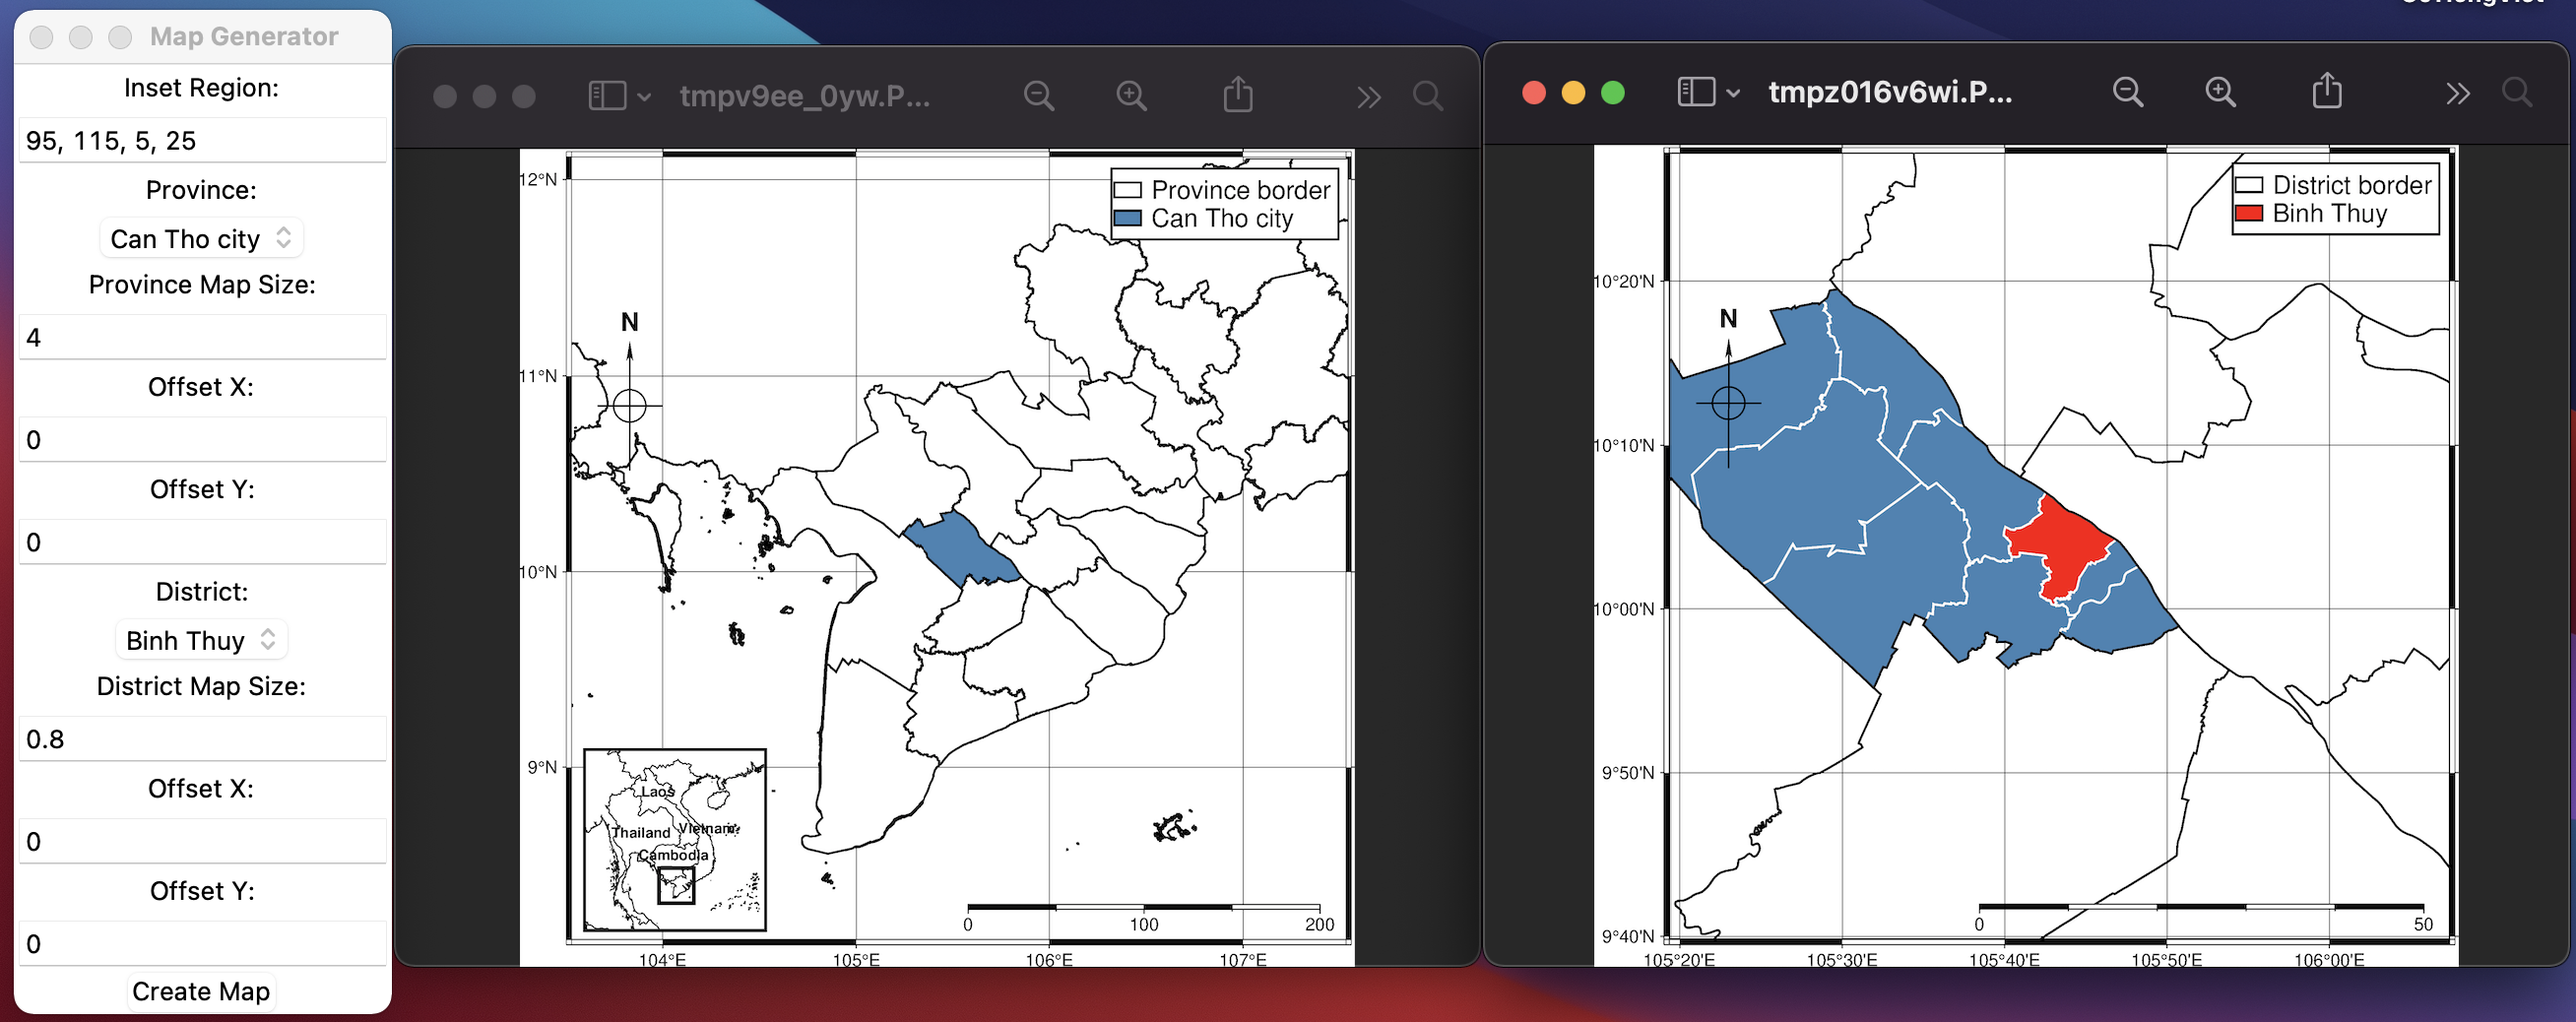
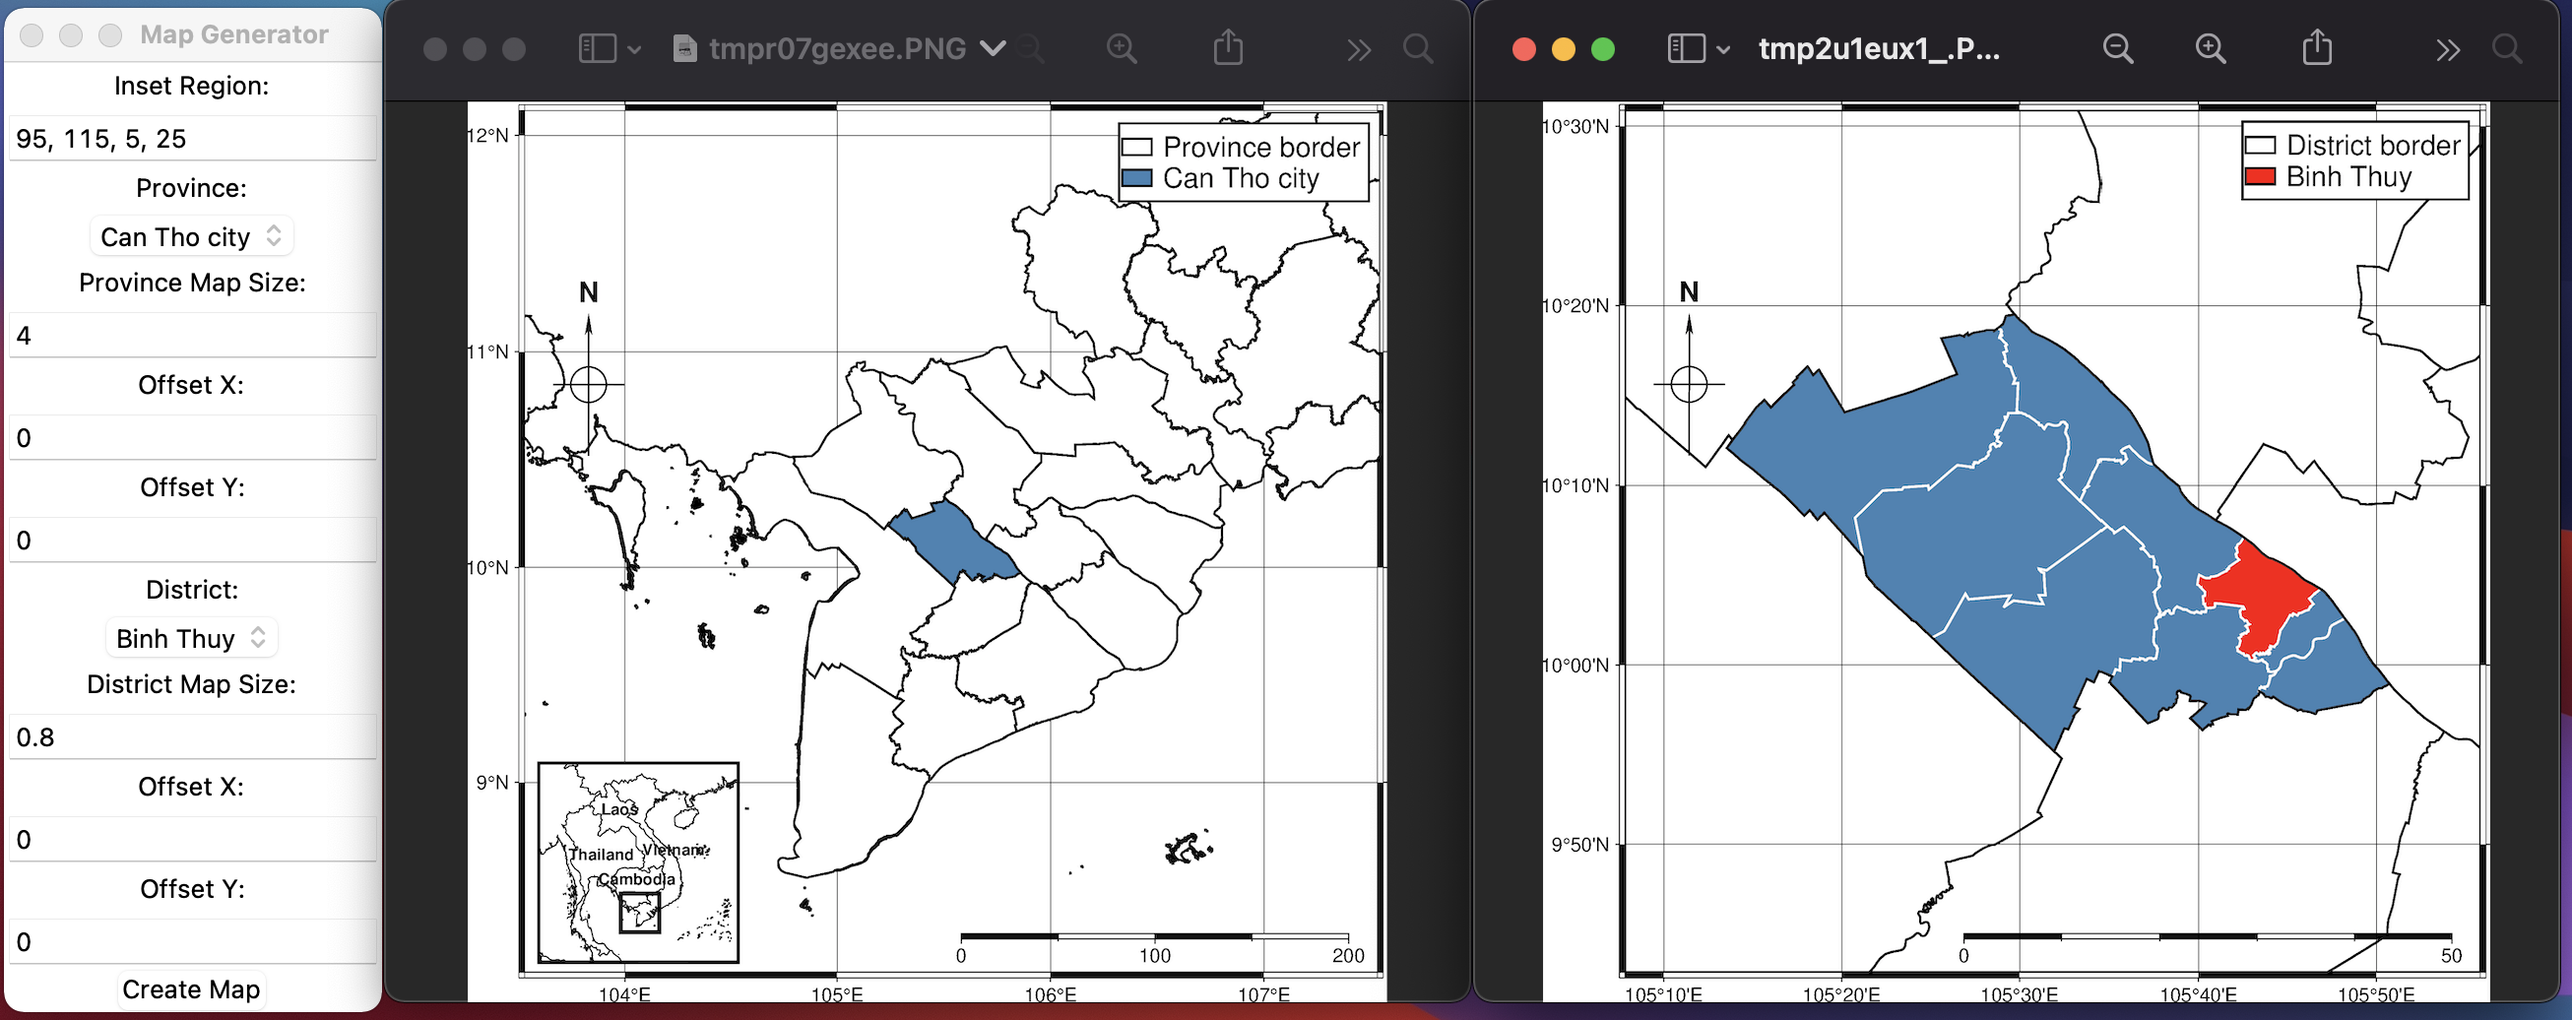
Update

diff --git a/MapGUI.py b/MapGUI.py
@@ -98,9 +98,17 @@ def create_map(inset_region, province,district, province_size, district_size,pro
     fig2 = pygmt.Figure()
 
 
-    # Calculate the centroid of the province
-    district_shape = districts[districts['ADM2_EN'] == district].iloc[0]
-    centroid = district_shape.geometry.centroid
+    # Calculate the centroid of the district in case of island(s)
+    far_island_districts = [
+    'Phu Quoc',
+    'Truong Sa',
+    'Hoang Sa',
+    'Con Dao']
+    # Update centroid
+
+    if district in far_island_districts:
+        district_shape = districts[districts['ADM2_EN'] == district].iloc[0]
+        centroid = district_shape.geometry.centroid
 
     region_size = district_size
     region = [centroid.x-region_size/2+district_offset_x, centroid.x+region_size/2+district_offset_x, centroid.y-region_size/2+district_offset_y, centroid.y+region_size/2++district_offset_y]

diff --git a/README.md b/README.md
@@ -31,7 +31,7 @@ pip install geopandas
 2. Nhập khu vực rộng hơn để thêm vào khóc dưới bên trái (đã có giá trị mặc định).
 2. Chọn một tỉnh (hay thành phố) từ danh sách thả xuống.
 3. Chọn một huyện (hay thị xã, thành phố) từ danh sách thả xuống.
-4. Điều chỉnh kích thước của tỉnh và huyện (tùy chọn). Gia giảm kích thước và dịch chuyển mốc (offset) đối với các tỉnh có đảo ở xa để có kích thước phù hợp nhất,
+4. Điều chỉnh kích thước của tỉnh và huyện (tùy chọn). Gia giảm kích thước và dịch chuyển mốc (offset) đối với các tỉnh có đảo ở xa để có kích thước phù hợp nhất/
 6. Nhấp vào nút "Create Map".
 7. Hai bản đồ tỉnh và huyện được tạo sẽ được hiển thị trong một cửa sổ mới. Đồng thời hai bản đồ dạng PDF cũng được tạo ra để chỉnh sửa thêm (Adobe Acrobat, Inkscape, Illustrator).
 
